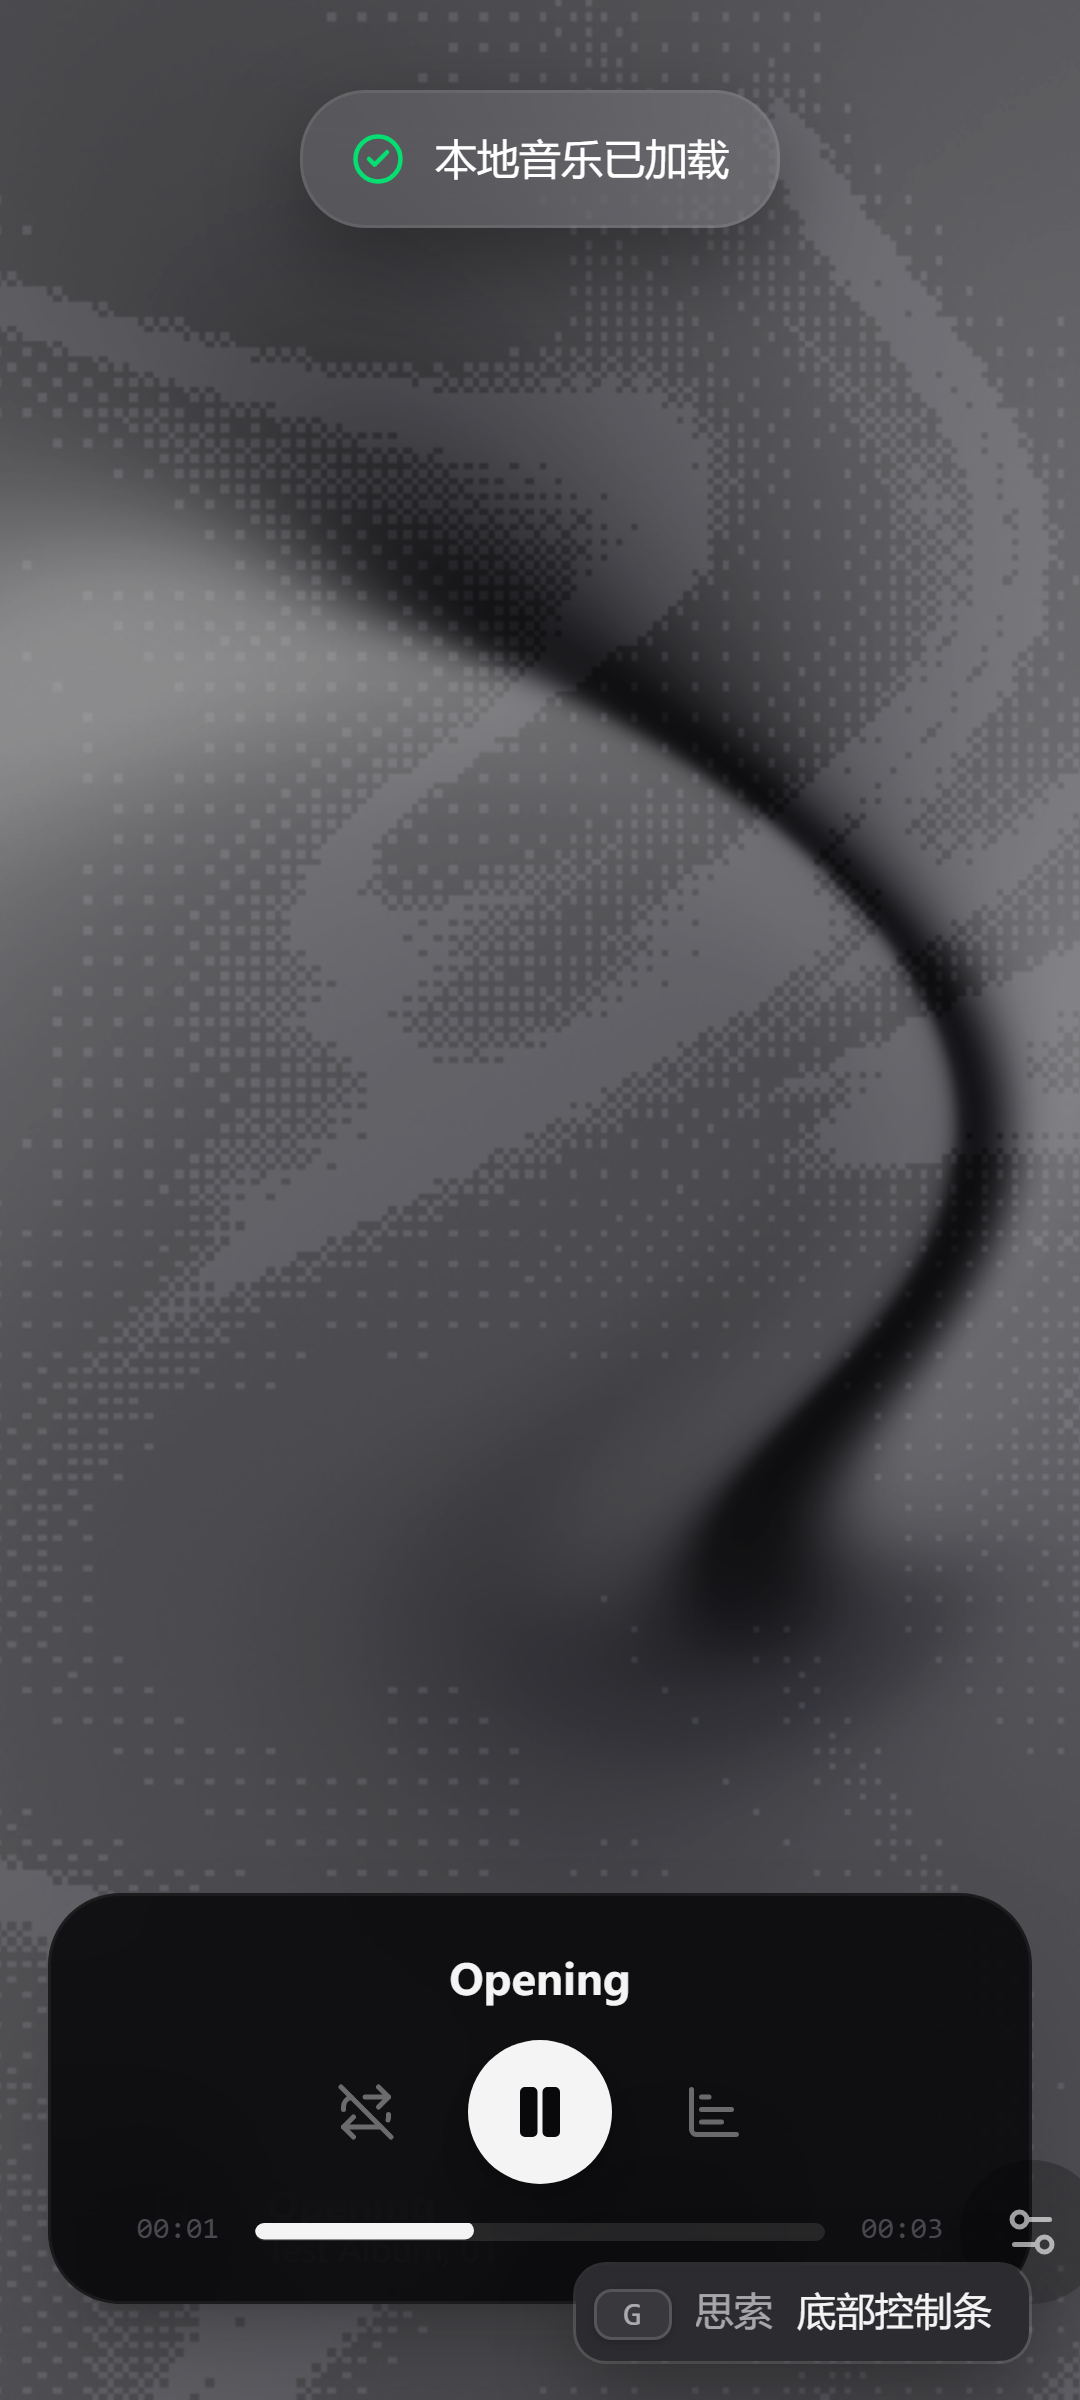
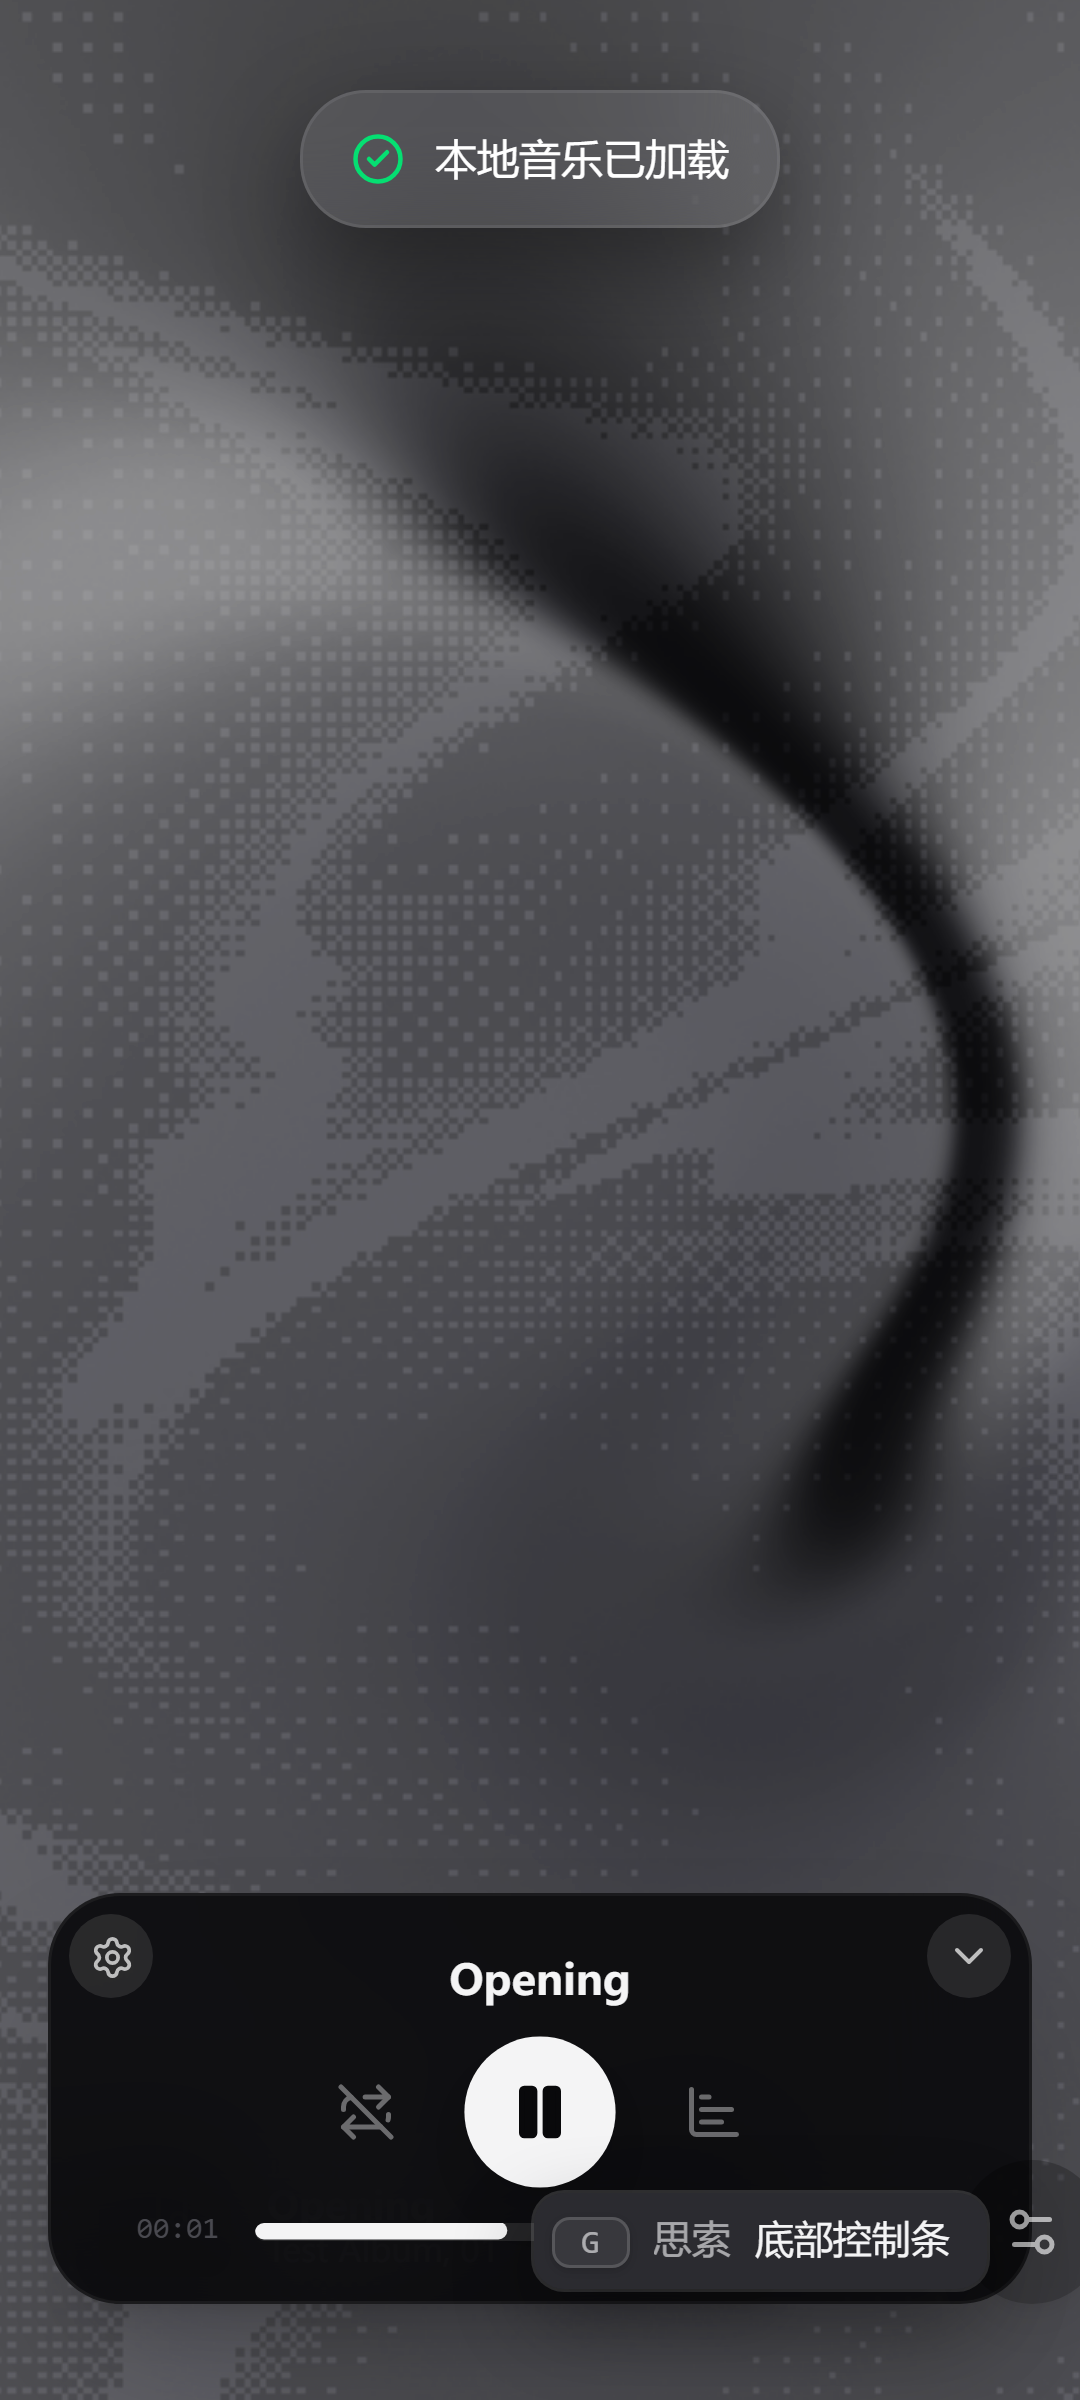
设置并入播放条；书库面板可拖动并缩成图标列

diff --git a/src/library/suites/bravais/BravaisStage.tsx b/src/library/suites/bravais/BravaisStage.tsx
@@ -1,4 +1,4 @@
-import React, { useCallback, useEffect, useLayoutEffect, useMemo, useRef, type CSSProperties, type MouseEvent } from 'react';
+import React, { useCallback, useEffect, useLayoutEffect, useMemo, useRef, useState, type CSSProperties, type MouseEvent } from 'react';
 import { useTranslation } from 'react-i18next';
 import type { WallSlot } from '../../../components/wall/wallSlots';
 import { BRAVAIS_BLOCK_SHAPE, collectShapeSlots } from './bravaisWallShape';
@@ -11,6 +11,7 @@ import {
     isHorizontalSeamAnchor,
     isPinnedSeamAnchor,
     PINNED_SEAM_BAR_PX,
+    PINNED_SEAM_RAIL_PX,
     PINNED_SEAM_STRIP_PX,
 } from '../../../utils/libraryWallSeamAnchor';
 import type { LibrarySuiteStageProps } from '../../core/suite/suite.contract';
@@ -139,6 +140,11 @@ const BravaisStage: React.FC<LibrarySuiteStageProps> = ({
     const seamAnchor = useLibraryWallLookStore(state => state.seamAnchor);
     const pinnedSeam = isPinnedSeamAnchor(seamAnchor);
     pinnedRef.current = pinnedSeam;
+    // 贴边面板可以拖走，也可以缩成一条图标列。
+    const [pinnedOffset, setPinnedOffset] = useState({ x: 0, y: 0 });
+    const [pinnedMinimized, setPinnedMinimized] = useState(false);
+    const pinnedOffsetRef = useRef(pinnedOffset);
+    pinnedOffsetRef.current = pinnedOffset;
     const { wallLook, seamLook } = useBravaisWallLook(reportPlayerOcclusion, reportPlayerBackdrop);
     const view = useBravaisViewport(rootRef);
     const reducedMotion = useReducedMotionFor('lattice');
@@ -242,6 +248,9 @@ const BravaisStage: React.FC<LibrarySuiteStageProps> = ({
     /**
      * 缝被钉在某一侧时，它的位置由这里写：贴边、不跟着墙面移动。墙那一侧不再为缝开口
      * （useBravaisFrame 在 pinnedRef 为真时把 openWidth 压成 0），所以拖动只移动墙，缝原地不动。
+     *
+     * 面板还能被拖到别处（pinnedOffset）并缩小成一条图标列（pinnedMinimized）：手机上一整列页签
+     * 会把墙全挡住，缩起来只留工具与账户图标，展开再点回来。
      */
     useLayoutEffect(() => {
         const element = seamRef.current;
@@ -251,6 +260,7 @@ const BravaisStage: React.FC<LibrarySuiteStageProps> = ({
             element.style.width = '';
             element.style.transform = '';
             element.style.visibility = '';
+            element.removeAttribute('data-pinned-minimized');
             return;
         }
         // 钉住时缝要真的展开：用户把它折起来（hidden）的话仍然尊重折叠。
@@ -259,17 +269,76 @@ const BravaisStage: React.FC<LibrarySuiteStageProps> = ({
             return;
         }
         const horizontal = isHorizontalSeamAnchor(seamAnchor);
-        // 竖条按视口比例取宽：360px 的手机上给到 ~310px（够放整行页签），桌面上封顶 340px。
-        // 竖条宽度对齐底部工具列：窄条，不占半个屏幕。
-        const width = horizontal ? view.width : PINNED_SEAM_STRIP_PX;
+        const strip = pinnedMinimized ? PINNED_SEAM_RAIL_PX : PINNED_SEAM_STRIP_PX;
+        const width = horizontal ? view.width : strip;
         const height = horizontal ? PINNED_SEAM_BAR_PX : view.height;
-        const x = seamAnchor === 'right' ? view.width - width : 0;
-        const y = seamAnchor === 'bottom' ? view.height - height : 0;
+        const baseX = seamAnchor === 'right' ? view.width - width : 0;
+        const baseY = seamAnchor === 'bottom' ? view.height - height : 0;
+        // 拖动偏移只在范围内生效，面板不会被拖出屏幕。
+        const maxX = Math.max(0, view.width - width);
+        const maxY = Math.max(0, view.height - height);
+        const x = Math.min(maxX, Math.max(0, baseX + pinnedOffset.x));
+        const y = Math.min(maxY, Math.max(0, baseY + pinnedOffset.y));
+        if (pinnedMinimized) element.dataset.pinnedMinimized = '';
+        else element.removeAttribute('data-pinned-minimized');
         element.style.transform = `translate3d(${x}px, ${y}px, 0)`;
         element.style.width = `${width}px`;
         element.style.height = `${height}px`;
         element.style.visibility = 'visible';
-    }, [pinnedSeam, seamAnchor, seam.level, seam.rendered.width, seamRef, view]);
+    }, [pinnedSeam, seamAnchor, seam.level, seam.rendered.width, seamRef, view, pinnedMinimized, pinnedOffset]);
+
+    /**
+     * 面板的拖动与「缩小」：拖动由标题区/空白处发起（按钮上的按下留给按钮自己），
+     * 缩小用原来的折叠键——它把面板折成一条图标列，而不是把整条缝藏起来。
+     */
+    useEffect(() => {
+        const element = seamRef.current;
+        if (!element || !pinnedSeam) return;
+
+        let start: { pointerX: number; pointerY: number; offsetX: number; offsetY: number } | null = null;
+
+        const onPointerDown = (event: PointerEvent) => {
+            if (event.button !== 0) return;
+            if ((event.target as Element).closest('button, a, input, textarea, [role="tab"]')) return;
+            start = {
+                pointerX: event.clientX,
+                pointerY: event.clientY,
+                offsetX: pinnedOffsetRef.current.x,
+                offsetY: pinnedOffsetRef.current.y,
+            };
+            element.setPointerCapture(event.pointerId);
+        };
+        const onPointerMove = (event: PointerEvent) => {
+            if (!start) return;
+            setPinnedOffset({
+                x: start.offsetX + (event.clientX - start.pointerX),
+                y: start.offsetY + (event.clientY - start.pointerY),
+            });
+        };
+        const endDrag = () => { start = null; };
+
+        // 捕获阶段拦下折叠键：贴边时不折叠整条缝，改成缩小 / 展开这条图标列。
+        const onClickCapture = (event: globalThis.MouseEvent) => {
+            const hit = (event.target as Element).closest('[data-bravais-seam-action="hide"]');
+            if (!hit) return;
+            event.preventDefault();
+            event.stopPropagation();
+            setPinnedMinimized(minimized => !minimized);
+        };
+
+        element.addEventListener('pointerdown', onPointerDown);
+        element.addEventListener('pointermove', onPointerMove);
+        element.addEventListener('pointerup', endDrag);
+        element.addEventListener('pointercancel', endDrag);
+        element.addEventListener('click', onClickCapture, true);
+        return () => {
+            element.removeEventListener('pointerdown', onPointerDown);
+            element.removeEventListener('pointermove', onPointerMove);
+            element.removeEventListener('pointerup', endDrag);
+            element.removeEventListener('pointercancel', endDrag);
+            element.removeEventListener('click', onClickCapture, true);
+        };
+    }, [pinnedSeam, seamRef]);
 
     // 此刻渲染着的 slot（按显示的形状裁剪，见下面 useBravaisDisplay 之后）。
     const slotsRef = useRef<readonly WallSlot[]>([]);

diff --git a/src/components/FloatingPlayerControls.tsx b/src/components/FloatingPlayerControls.tsx
@@ -1,10 +1,11 @@
 import React, { useCallback, useEffect, useMemo, useRef, useState } from 'react';
 import { useTranslation } from 'react-i18next';
 import { AnimatePresence, motion } from 'framer-motion';
-import { ChevronDown, Music, Pause, Play } from 'lucide-react';
+import { ChevronDown, Music, Pause, Play, Settings } from 'lucide-react';
 import { MotionValue } from 'framer-motion';
 import ProgressBar from './ProgressBar';
 import { PlayerState, LyricData, Theme } from '../types';
+import { useSettingsModalStore } from '../stores/useSettingsModalStore';
 import LyricsTimelineModal from './modal/LyricsTimelineModal';
 import TrackTitleNavigator from './floating-player/TrackTitleNavigator';
 import PlayerControlSlotButton from './floating-player/PlayerControlSlotButton';
@@ -394,6 +395,18 @@ const FloatingPlayerControls: React.FC<FloatingPlayerControlsProps> = ({
                             ${isPositioning ? 'cursor-grab active:cursor-grabbing' : 'cursor-pointer'}
                             ${showExpanded ? `px-4 py-4 ${glassBgExpanded} w-full` : `p-1.5 ${glassBgCollapsed} w-auto`}`}
                     >
+                        {/* 设置入口就放在播放条上：手机上另起一颗悬浮设置键会和播放条、提示条抢位置。 */}
+                        {showExpanded && !isPositioning && (
+                            <button
+                                type="button"
+                                aria-label={t('player.settings')}
+                                title={t('player.settings')}
+                                onClick={() => useSettingsModalStore.getState().openSettings()}
+                                className="absolute left-1.5 top-1.5 z-10 grid h-7 w-7 place-items-center rounded-full bg-white/10 text-white/70 transition-colors hover:bg-white/20"
+                            >
+                                <Settings size={15} aria-hidden />
+                            </button>
+                        )}
                         {/* 展开后收起：触摸设备上没有「移开鼠标」，需要一个明确的返回迷你条入口。 */}
                         {showExpanded && !isPositioning && (
                             <button

diff --git a/src/library/suites/bravais/bravaisSeamAnchor.css b/src/library/suites/bravais/bravaisSeamAnchor.css
@@ -280,3 +280,28 @@
     flex: none;
     align-self: center;
 }
+
+/* 缩小态：只留一条图标列（账户与工具），页签与标题收起来。 */
+[data-pinned-minimized] > .bravais-seam .bravais-seam-home {
+    padding: 10px 6px;
+    gap: 8px;
+}
+
+[data-pinned-minimized] > .bravais-seam .bravais-seam-home-title,
+[data-pinned-minimized] > .bravais-seam .bravais-seam-home-side,
+[data-pinned-minimized] > .bravais-seam .bravais-seam-home-middle,
+[data-pinned-minimized] > .bravais-seam .bravais-seam-account span {
+    display: none;
+}
+
+[data-pinned-minimized] > .bravais-seam .bravais-seam-home-head,
+[data-pinned-minimized] > .bravais-seam .bravais-seam-home-nav-content {
+    align-items: center;
+    justify-content: center;
+    gap: 6px;
+}
+
+[data-pinned-minimized] > .bravais-seam .bravais-seam-account,
+[data-pinned-minimized] > .bravais-seam .bravais-seam-dock {
+    align-self: center;
+}

diff --git a/src/services/mobileShell/mobileShell.css b/src/services/mobileShell/mobileShell.css
@@ -23,8 +23,8 @@ html[data-folia-shell='android'] {
     /* The floating capsule is 80% wide below `md`. At 360 CSS px that leaves a ~290px progress bar
      * to both seek and read the time on - so on a phone it takes the width it can get. */
     /* The resting state is a cover-only mini pill: it must shrink to its content, not fill the row.
-     * The expanded state keeps the full width it asks for itself. */
-    html[data-folia-shell='android'] [data-ponder='player-bar'] {
+     * The expanded state keeps its own full width, so the rule only applies while it is the mini one. */
+    html[data-folia-shell='android'] [data-ponder='player-bar']:not(.rounded-3xl) {
         width: auto;
     }
 

diff --git a/src/utils/libraryWallSeamAnchor.ts b/src/utils/libraryWallSeamAnchor.ts
@@ -40,3 +40,5 @@ export const isHorizontalSeamAnchor = (anchor: LibraryWallSeamAnchor): boolean =
 /** Height of the horizontal bar, and the vertical strip's width (the bottom tool column's). */
 export const PINNED_SEAM_BAR_PX = 72;
 export const PINNED_SEAM_STRIP_PX = 152;
+/** 缩小后的图标列宽度。 */
+export const PINNED_SEAM_RAIL_PX = 64;

diff --git a/src/i18n/locales/zh-CN.ts b/src/i18n/locales/zh-CN.ts
@@ -3420,6 +3420,7 @@ export default {
     "play": "播放",
     "pause": "暂停",
     "collapse": "收起",
+    "settings": "设置",
     "like": "收藏",
     "unlike": "取消收藏",
     "loopOff": "关闭循环",

diff --git a/src/i18n/locales/in.ts b/src/i18n/locales/in.ts
@@ -3412,6 +3412,7 @@ export default {
     "play": "Putar",
     "pause": "Jeda",
     "collapse": "Ciutkan",
+    "settings": "Pengaturan",
     "like": "Suka",
     "unlike": "Batal Suka",
     "loopOff": "Ulangi Mati",

diff --git a/src/i18n/locales/en.ts b/src/i18n/locales/en.ts
@@ -3420,6 +3420,7 @@ export default {
     "play": "Play",
     "pause": "Pause",
     "collapse": "Collapse",
+    "settings": "Settings",
     "like": "Like",
     "unlike": "Unlike",
     "loopOff": "Loop off",
